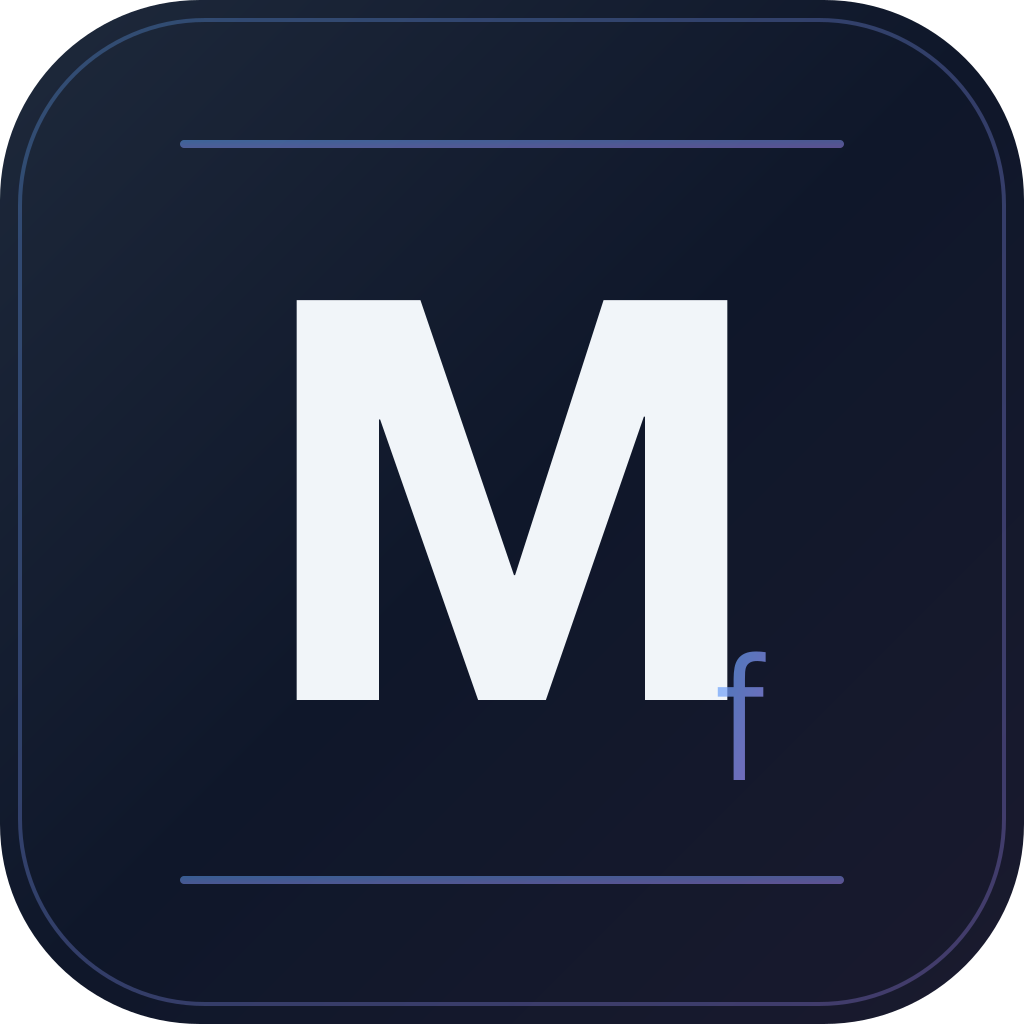
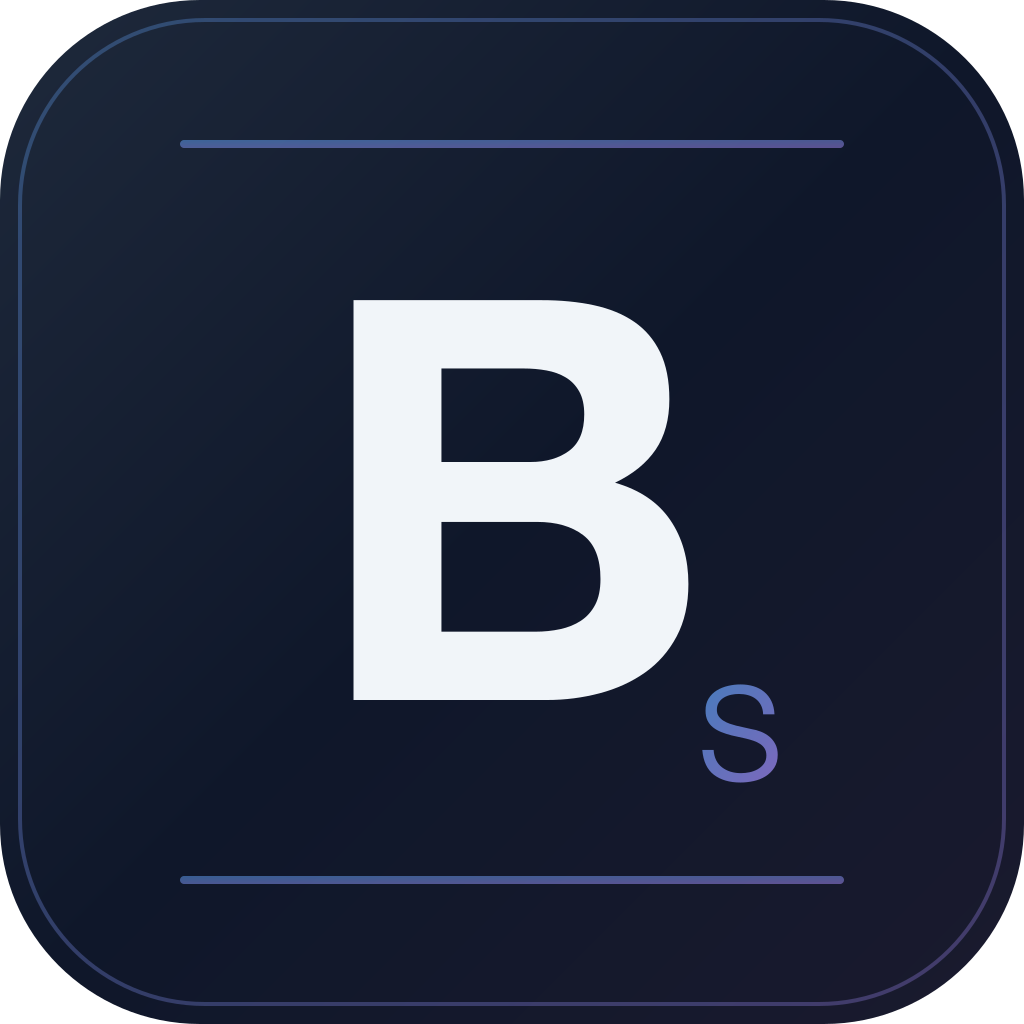
Rename project from MediaFetch to BluSlate
Rename across all 32 files: package scope (@mediafetch/* → @bluslate/*),
CLI command (mediafetch → bluslate), display names, app ID, config
directories, log filenames, app icon, documentation, CI/CD, and
electron-builder config.

Changed region(s): [[0.2812, 0.2812, 0.7812, 0.7812]]

diff --git a/packages/cli/src/cli.ts b/packages/cli/src/cli.ts
@@ -1,7 +1,7 @@
 import { Command } from 'commander';
-import { buildConfig, saveApiKey, setFfprobePath, isFfprobeAvailable } from '@mediafetch/core';
-import { runPipeline } from '@mediafetch/core';
-import { setVerbose } from '@mediafetch/core';
+import { buildConfig, saveApiKey, setFfprobePath, isFfprobeAvailable } from '@bluslate/core';
+import { runPipeline } from '@bluslate/core';
+import { setVerbose } from '@bluslate/core';
 import chalk from 'chalk';
 import { promptForApiKey } from './ui/prompts.js';
 import { createCliAdapter } from './ui/cli-adapter.js';
@@ -10,7 +10,7 @@ export function createProgram(): Command {
   const program = new Command();
 
   program
-    .name('mediafetch')
+    .name('bluslate')
     .description('Rename TV show files using TMDb metadata')
     .version('0.1.0')
     .argument('<directory>', 'Directory containing media files to rename')
@@ -27,20 +27,20 @@ Environment Variables:
   TMDB_API_KEY        TMDb API Read Access Token (overridden by --api-key flag)
                       Get a free token at: https://www.themoviedb.org/settings/api
   XDG_CONFIG_HOME     Config directory on Linux/macOS (default: ~/.config)
-                      Config file stored at: $XDG_CONFIG_HOME/mediafetch/config.json
+                      Config file stored at: $XDG_CONFIG_HOME/bluslate/config.json
   APPDATA             Config directory on Windows (default: %APPDATA%)
-                      Config file stored at: %APPDATA%/mediafetch/config.json
+                      Config file stored at: %APPDATA%/bluslate/config.json
 
 API Key Resolution Order:
   1. --api-key flag
   2. TMDB_API_KEY environment variable
-  3. Config file (set via "mediafetch config")
+  3. Config file (set via "bluslate config")
 
 Examples:
-  $ mediafetch /path/to/tv/shows
-  $ mediafetch -r -n /media/tv/show
-  $ TMDB_API_KEY=your_token mediafetch /media/tv
-  $ mediafetch --template '{show_name} {season}x{episode}' /media/tv`)
+  $ bluslate /path/to/tv/shows
+  $ bluslate -r -n /media/tv/show
+  $ TMDB_API_KEY=your_token bluslate /media/tv
+  $ bluslate --template '{show_name} {season}x{episode}' /media/tv`)
     .action(async (directory: string, options: Record<string, unknown>) => {
       if (options['verbose']) setVerbose(true);
 
@@ -92,7 +92,7 @@ Examples:
   // Subcommand: config
   program
     .command('config')
-    .description('Interactively configure MediaFetch settings')
+    .description('Interactively configure BluSlate settings')
     .action(async () => {
       try {
         const apiKey = await promptForApiKey();

diff --git a/packages/gui/src/main/index.ts b/packages/gui/src/main/index.ts
@@ -3,7 +3,7 @@ import { join } from 'node:path';
 import { existsSync } from 'node:fs';
 import { stat } from 'node:fs/promises';
 import { electronApp, optimizer, is } from '@electron-toolkit/utils';
-import { runPipeline, buildConfig, setFfprobePath, isFfprobeAvailable, renderTemplate, getTemplate, undoRenames } from '@mediafetch/core';
+import { runPipeline, buildConfig, setFfprobePath, isFfprobeAvailable, renderTemplate, getTemplate, undoRenames } from '@bluslate/core';
 
 // Packaged macOS .app bundles inherit a minimal PATH (/usr/bin:/bin:/usr/sbin:/sbin)
 // that doesn't include Homebrew paths where ffprobe typically lives.
@@ -70,7 +70,7 @@ function createWindow(): BrowserWindow {
     minWidth: 800,
     minHeight: 600,
     show: false,
-    title: 'MediaFetch',
+    title: 'BluSlate',
     icon: iconPath,
     webPreferences: {
       preload: join(__dirname, '../preload/index.js'),
@@ -131,7 +131,7 @@ app.whenReady().then(async () => {
   currentSettings = await loadSettings();
 
   // Set app user model ID for Windows notifications
-  electronApp.setAppUserModelId('com.mediafetch.app');
+  electronApp.setAppUserModelId('com.bluslate.app');
 
   // Default open/close shortcuts for dev
   app.on('browser-window-created', (_, window) => {
@@ -270,7 +270,7 @@ app.whenReady().then(async () => {
     },
   );
 
-  // Undo renames using the .mediafetch-log.json file
+  // Undo renames using the .bluslate-log.json file
   ipcMain.handle('undo:execute', (_event, directory: string) => {
     if (!directory || typeof directory !== 'string') {
       return { restored: 0, failed: 0 };

diff --git a/packages/gui/src/renderer/src/lib/components/DirectoryPicker.svelte b/packages/gui/src/renderer/src/lib/components/DirectoryPicker.svelte
@@ -149,7 +149,7 @@
     </button>
     {#if tipsOpen}
       <ul class="tips-list">
-        <li><strong>Season folders should have clear naming</strong> (S1, or Season 1) — MediaFetch uses folder structure to determine episode seasons. Often the disks themselves contain adequate naming.</li>
+        <li><strong>Season folders should have clear naming</strong> (S1, or Season 1) — BluSlate uses folder structure to determine episode seasons. Often the disks themselves contain adequate naming.</li>
         <li><strong>Remove "Play All" tracks</strong> — Long concatenated files consume episode slots and confuse the matcher.</li>
         <li><strong>Delete extras and duplicates</strong> — Bonus content and duplicate quality rips take episode positions from real episodes.</li>
         <li><strong>TMDb Show Identification</strong> — Edit the search on the TMDb screen if the folder name doesn't result in a match. This name is also used to search DVDCompare.</li>

diff --git a/tests/unit/config.test.ts b/tests/unit/config.test.ts
@@ -9,8 +9,8 @@ vi.mock('node:fs/promises', () => ({
 
 // Mock platform utils
 vi.mock('../../packages/core/src/utils/platform.js', () => ({
-  getConfigFilePath: vi.fn(() => '/mock/.config/mediafetch/config.json'),
-  getConfigDir: vi.fn(() => '/mock/.config/mediafetch'),
+  getConfigFilePath: vi.fn(() => '/mock/.config/bluslate/config.json'),
+  getConfigDir: vi.fn(() => '/mock/.config/bluslate'),
 }));
 
 // Mock the logger
@@ -103,7 +103,7 @@ describe('saveApiKey', () => {
 
     await saveApiKey('new-key');
 
-    expect(mockedMkdir).toHaveBeenCalledWith('/mock/.config/mediafetch', { recursive: true });
+    expect(mockedMkdir).toHaveBeenCalledWith('/mock/.config/bluslate', { recursive: true });
     expect(mockedWriteFile).toHaveBeenCalledOnce();
 
     const writtenContent = JSON.parse((mockedWriteFile.mock.calls[0][1] as string).trim());

diff --git a/packages/gui/electron.vite.config.ts b/packages/gui/electron.vite.config.ts
@@ -4,10 +4,10 @@ import path from 'node:path';
 
 export default defineConfig({
   main: {
-    plugins: [externalizeDepsPlugin({ exclude: ['@mediafetch/core'] })],
+    plugins: [externalizeDepsPlugin({ exclude: ['@bluslate/core'] })],
     resolve: {
       alias: {
-        '@mediafetch/core': path.resolve(__dirname, '../core/src/index.ts'),
+        '@bluslate/core': path.resolve(__dirname, '../core/src/index.ts'),
       },
     },
   },
@@ -33,7 +33,7 @@ export default defineConfig({
     plugins: [svelte()],
     resolve: {
       alias: {
-        '@mediafetch/core': path.resolve(__dirname, '../core/src/index.ts'),
+        '@bluslate/core': path.resolve(__dirname, '../core/src/index.ts'),
       },
     },
   },

diff --git a/packages/core/src/core/renamer.ts b/packages/core/src/core/renamer.ts
@@ -65,7 +65,7 @@ export async function executeRenames(
 export async function undoRenames(
   directory: string,
 ): Promise<{ restored: number; failed: number }> {
-  const logPath = path.join(directory, '.mediafetch-log.json');
+  const logPath = path.join(directory, '.bluslate-log.json');
   let logData: unknown;
 
   try {
@@ -149,7 +149,7 @@ export async function writeRenameLog(
 ): Promise<void> {
   if (renames.length === 0) return;
 
-  const logPath = path.join(directory, '.mediafetch-log.json');
+  const logPath = path.join(directory, '.bluslate-log.json');
   const log: RenameLog = {
     timestamp: new Date().toISOString(),
     renames,

diff --git a/packages/core/src/utils/platform.ts b/packages/core/src/utils/platform.ts
@@ -8,17 +8,17 @@ function isWindows(): boolean {
 export function getConfigDir(): string {
   const xdgConfig = process.env['XDG_CONFIG_HOME'];
   if (xdgConfig) {
-    return path.join(xdgConfig, 'mediafetch');
+    return path.join(xdgConfig, 'bluslate');
   }
 
   if (isWindows()) {
     const appData = process.env['APPDATA'];
     if (appData) {
-      return path.join(appData, 'mediafetch');
+      return path.join(appData, 'bluslate');
     }
   }
 
-  return path.join(os.homedir(), '.config', 'mediafetch');
+  return path.join(os.homedir(), '.config', 'bluslate');
 }
 
 export function getConfigFilePath(): string {

diff --git a/packages/gui/src/renderer/src/App.svelte b/packages/gui/src/renderer/src/App.svelte
@@ -43,7 +43,7 @@
       if (currentView !== 'setup') {
         // Block the reload — throwing prevents Vite's client from calling
         // location.reload(). The user's view and data are preserved.
-        throw '[MediaFetch] Blocked HMR full reload during active session';
+        throw '[BluSlate] Blocked HMR full reload during active session';
       }
     });
   }
@@ -231,7 +231,7 @@
 
 <main>
   <header>
-    <h1>MediaFetch</h1>
+    <h1>BluSlate</h1>
     <p class="subtitle">Rename TV shows using TMDb metadata</p>
   </header>
 

diff --git a/packages/cli/src/ui/prompts.ts b/packages/cli/src/ui/prompts.ts
@@ -1,6 +1,6 @@
 import { confirm, select, input } from '@inquirer/prompts';
 import chalk from 'chalk';
-import type { MatchResult, TmdbTvResult, TmdbClient, DvdCompareSearchResult, ShowIdentificationResult } from '@mediafetch/core';
+import type { MatchResult, TmdbTvResult, TmdbClient, DvdCompareSearchResult, ShowIdentificationResult } from '@bluslate/core';
 import { editSingleMatch, displayReviewList, formatRuntimeMmSs } from './editor.js';
 import type { ReviewStatus } from './editor.js';
 import { displayResults } from './display.js';

diff --git a/packages/cli/src/ui/editor.ts b/packages/cli/src/ui/editor.ts
@@ -1,7 +1,7 @@
 import { select, input } from '@inquirer/prompts';
 import chalk from 'chalk';
-import { renderTemplate, getTemplate, logger } from '@mediafetch/core';
-import type { MatchResult, TmdbClient } from '@mediafetch/core';
+import { renderTemplate, getTemplate, logger } from '@bluslate/core';
+import type { MatchResult, TmdbClient } from '@bluslate/core';
 
 export type EditAction = 'accepted' | 'edited' | 'skipped' | 'cancelled';
 export type ReviewStatus = 'pending' | 'accepted' | 'skipped';

diff --git a/packages/gui/src/renderer/index.html b/packages/gui/src/renderer/index.html
@@ -2,7 +2,7 @@
 <html lang="en">
   <head>
     <meta charset="UTF-8" />
-    <title>MediaFetch</title>
+    <title>BluSlate</title>
     <meta
       http-equiv="Content-Security-Policy"
       content="default-src 'self'; script-src 'self'; style-src 'self' 'unsafe-inline'; img-src 'self' https://image.tmdb.org data:; connect-src 'self' https://api.themoviedb.org https://www.dvdcompare.net; object-src 'none'; frame-src 'none'; frame-ancestors 'none'"

diff --git a/tests/unit/renamer.test.ts b/tests/unit/renamer.test.ts
@@ -196,7 +196,7 @@ describe('writeRenameLog', () => {
 
     expect(mockedWriteFile).toHaveBeenCalledOnce();
     const [logPath, content] = mockedWriteFile.mock.calls[0] as [string, string];
-    expect(logPath).toBe(path.join('/media', '.mediafetch-log.json'));
+    expect(logPath).toBe(path.join('/media', '.bluslate-log.json'));
 
     const parsed = JSON.parse(content);
     expect(parsed.timestamp).toBeDefined();
